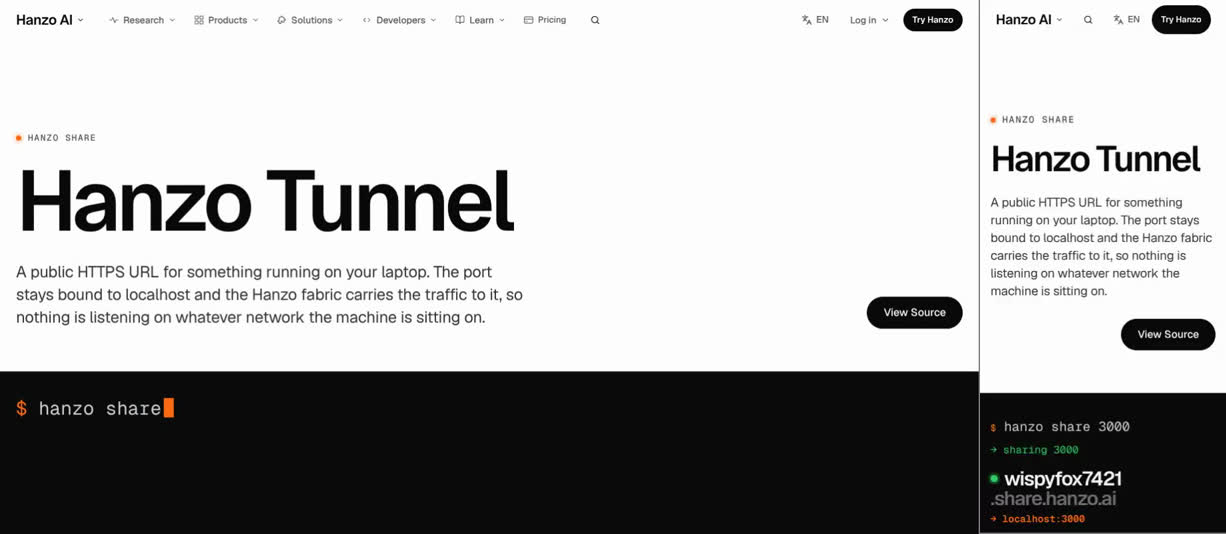
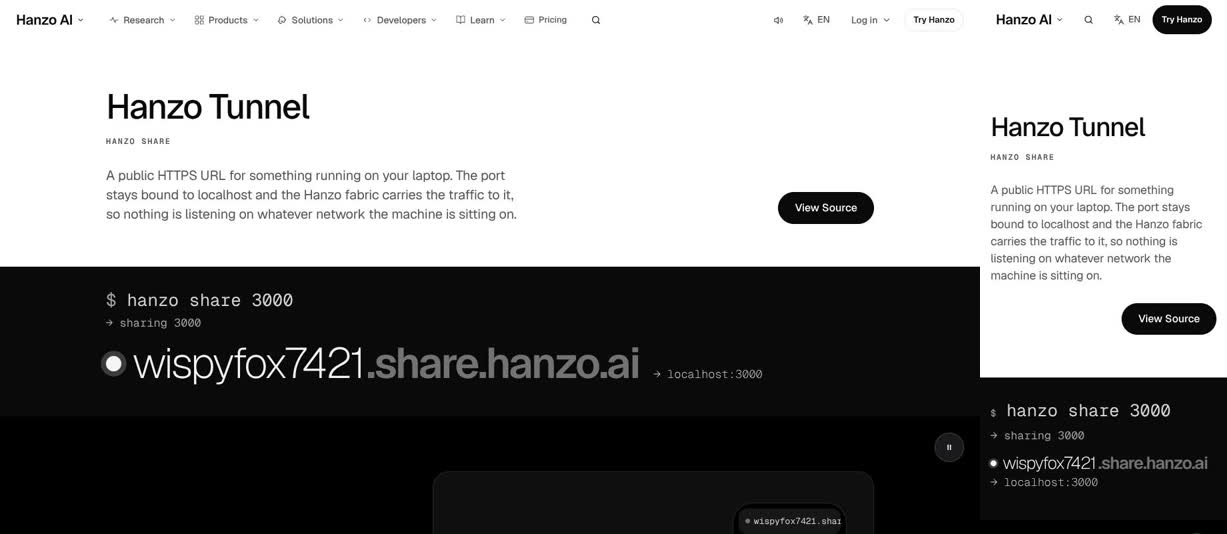
re-review: /tunnel 5/10 after the system merge (phone scene collapses to 0px, dead page, card claims false)
Claude-Session: https://claude.ai/code/session_01DqUybEnABm6Lfey1goid2b

diff --git a/docs/review/tunnel.md b/docs/review/tunnel.md
@@ -1,108 +1,219 @@
 # /tunnel: James-eye review
 
 Verdict: 5/10
-First complaint: "It's orange again, with green and red as well. I said greys, silvers, blacks and whites. The best moment on the page is just a box filling up with orange. That little label is on top of the headline again, and after the dark part it turns into a list of paragraphs."
+First complaint: "It's black and white now, and the address landing under the title is nice. But on my phone the middle is just a black gap with one thin line where the laptop and the phone should be. And once the address lands, nothing moves unless I scroll. The bottom half is still text, and it ends the same way as the other Cloud pages."
 
-Reviewed: branch `claude/laughing-hamilton-uisesd` @ `cd5ee2a` (merged to main; the branch has since moved to `486d6d0`, which only changes how Tunnel.jsx reads reduced motion). Files hash: `0bf81264f27b`
-Walked 7 Nov 14:05–14:08 UTC on the dev server, moving, at 1470×801 and 375×812 (videos, frame sheets and a frame-difference motion log kept by the critic; the site loader was skipped).
+Reviewed: main @ `2475ed02` (last page commit `42470f7a`). Files hash: `54b593f6c601`
+Walked 7 Nov 15:21–15:24 UTC on the dev server, moving, at 1470×801 and 375×812 (videos, frame sheets and a frame-difference motion log kept by the critic; the site loader was skipped).
 Proof: `img/tunnel.jpg` (desktop first screen | phone first screen).
 
-## The 11 answers
-1. **Sells in 5 seconds, moves within 1 second?** Yes on phone, late on desktop. The idea is clear and good: under the title a black terminal types `hanzo share 3000`, prints "→ sharing 3000", and the public URL "wispyfox7421.share.hanzo.ai → localhost:3000" lands as a second headline. The title is 128px at line height 0.92.
-   - Phone: by 2.5 s the title, the lede, "View Source" and the landed URL all fit 375×812. In the first second after paint, 13 of 25 frames move (the title cuts in and the typing starts).
-   - Desktop: the URL lands at about y 680–750, inside 801, so the object is on the first screen. But the film is white with only the header for about 2.5 s: 1 of 25 frames moves in the first second after paint. The same blank start shows on /search, /telemetry and /visor on this dev server. The title cuts in at about 3 s, the typing starts at about 3.5 s, and the URL lands at about 7.5 s.
-   - With JS off, 9 text runs are hidden, including the lede and "View Source". The check passes the h1 on opacity, but in source the h1 is server-rendered at translateY(108%) inside an `overflow: hidden` line, so it starts out of sight.
-2. **One in, one out, or a document?** One in, one out through the dark room, then a document.
-   - Desktop dark room: a real pinned scene, 320svh tall. The laptop types the command, prints the URL and logs three `GET /` lines. The stage floods with "open internet", the phone loads a page, then "terminal closed" appears and the phone reads "stopped answering". The caption swaps from "01 / 06 The port stays on localhost" to "05 / 06 It ends when you do". This is the Apple move and the best part of the page.
-   - After it: "For the things that need a real URL" holds on the left while four numbered paragraphs (02, 03, 04, 06) scroll by on the right. Only 06 has a thing to touch (the proxy / web / static / drive switch). Then "One command, one URL", then two endings in a row ("Get started with Tunnel" with the agent prompt, then "Get Tunnel").
-   - Phone: the room is not pinned. Both captions come first as stacked text (s1 STILL), so you read "It ends when you do" before anything has opened. Then the stage plays itself on a 9 s loop.
-   - On both widths the chapter numbers read 01, 05, 02, 03, 04, 06.
-   - STILL: desktop 1 of 11 screens (s5, the room at 05/06), with s3 nearly still (3 frames, max 0.16). Phone: 2 of the 9 page screens (s1 captions, s6 the name builder), plus the footer.
-3. **A real object in every section?** No.
-   - Hero: yes, the terminal and the URL.
-   - Dark room: yes, a laptop, a phone and the "Hanzo fabric" wire with packets running along it. The phone's "page", though, is four grey bars under an orange gradient tile: a wireframe, not anything of Hanzo's.
-   - Facts: three of the four items are a heading and a paragraph only.
-   - "One command, one URL": yes, the code block and the "A name you can keep" builder. Typing a name rewrites the command and the URL. It is a good Beyond.
-   - Endings: the agent prompt card. "Get Tunnel" has no object.
-4. **One ask, sticky after the hero?** No.
-   - Five button verbs: "View Source" (hero, solid, magnetic), "Install the CLI" (solid) with "See Pricing" (outlined), "View on GitHub" (solid) and "Deploy to Cloud" (solid). "View Source" and "View on GitHub" go to the same github.com/hanzoai under two labels.
-   - Desktop: after the hero, the only sticky button is the global header's "Try Hanzo" (s1–s10). No page ask follows you.
-   - Phone: the header's "Try Hanzo" and the bottom bar's "View Source →" are two solid asks on every screen from s2 to s7, and s5 adds a third ("Install the CLI"). At s7 the bar sits on top of the close's "Deploy to Cloud"; only "ep" shows behind it.
-5. **Every hover and press answers?** No.
-   - Hero "View Source": the hover answers (it pulls toward the pointer), but there is no press state.
-   - "Install the CLI", "See Pricing", "View on GitHub", the "hanzoai" chip and "Deploy to Cloud": the hover answers, but there is no press state.
-   - The proxy / web / drive switch: dead hover (no hover rule at all), though it presses to 0.98. Phone: tapping "static" answers, and tapping "proxy", which is already selected, shows nothing.
-   - "Copy" answers with a drawn tick and "Copied".
-   - No opacity-only hover and no jumps.
-6. **Overlap, font swap, layout shift?** None measured.
-   - CLS 0 on desktop and 0.005 on phone (the room's laptop and caret).
-   - The h1 box is steady (one reading: 1422×136 at top 240, phone 343×58 at 216).
-   - No horizontal scroll at 375 or 320, and no overlaps.
-   - Two small notes. The fixed phone bar covers "Deploy to Cloud" at s7. On desktop the console logged "Transition was aborted because of timeout in DOM update" on arrival; /risk and /search log the same, so it is likely the shared page transition.
-7. **Which reference, and is its motion there?** apple.com product page, and its motion is there: a pinned dark room where one stage changes while the caption swaps.
-   - The motion is a real mix, not only scroll: time (typing, caret), pointer (the magnetic "View Source"), ambient (the packets on the wire, and the room playing itself on phone), state (the mode switch, the name builder) and scroll (the wipe).
-   - On desktop the walker's 650px steps show the room cutting from dark to full orange. The wipe growing from the terminal is visible in the phone film.
-   - synchronized.studio is absent: nothing opens into its page. There is no anthropic-style hero figure, but Hanzo's Tunnel copy has no figures, so that is fair.
-8. **Different from its neighbours?** Half. It is in Cloud 4 with /search, /sentinel, /stream, /telemetry and /visor.
-   - The first screen is /telemetry's skeleton: a dot eyebrow, a one-line 128px "Hanzo X" on the left, the lede, one black button on the right and a product strip on the fold. Here the strip is a black terminal band, and the URL landing as a second headline is Tunnel's own idea. The orange wipe room is its own signature.
-   - The rest is the Cloud kit: orange mono "0N / 06" numbers (as on /metrics and /sentinel), one dark room, an editorial list, the same "Paste and ship" card, and the same "Get X" block with license and "hanzoai" chips and "Deploy to Cloud" that /metrics and /search close on.
-   - It is the second orange page after /metrics, and /telemetry is amber. James: "too many repeats of the same colours."
-9. **All 18 parts covered?** No; see below. `docs/coverage/tunnel.md` is missing.
-10. **Banned tells?** Yes:
-    - An orange UI hue, declared in the file as "Accent: share orange" (`--ac: #ff6a13`). On desktop it covers 27 text runs and 1 background (16 and 1 on phone): the "$" prompts, the caret, "→ localhost:3000", every "0N / 06", the room's URL line, "A NAME YOU CAN KEEP", the mode word, the token in the built URL, the input focus ring and the eyebrow dot.
-    - The signature itself is an orange radial gradient box (`#ffb27d → #ff6a13 → #c2410c`) that fills the stage, and the drawn phone page carries another orange gradient tile. JAMES.md rule 7: "Colour from the brand, not from boxes."
-    - Green (`#30d158`) on 9 text runs and 3 backgrounds: "→ sharing 3000", the big green dot in front of the hero URL, "nothing listening" and the phone's address dot. Green accents are on the reject list.
-    - Red (`#ff6b6b`) on "terminal closed". The URL in the "One command" code block is blue.
-    - A "● HANZO SHARE" eyebrow 24px above the h1, with an orange dot.
-    - Dead hover on the mode switch.
-11. **Copy untouched?** Yes. Parity 38/38 text and 4/4 links.
-    - Four strings are not in Hanzo's source: "café network", "nothing listening", "open internet" and "Target: a port." They are labels lifted from Hanzo's own sentences ("a café… sees nothing", "nothing is listening").
-    - The rest is demo data ("GET / · 127.0.0.1:3000", "terminal closed", "stopped answering").
-    - None is a claim or a number. The order of the six facts on screen changes (01, 05, then 02, 03, 04, 06), but their words do not.
+## Since the last review
+- **Done: the colour, and the label over the title.**
+  - The walk found no hue at either width. Before, there was orange, green, red and blue.
+  - `--ac` is gone. The "open internet" is now a white-to-`#d4d4d4` light, the dots are white or ink, and "terminal closed" is grey italic.
+  - "hanzo share" is now a 12px mono caption under the h1, not a dotted eyebrow above it.
+  - Contrast is fixed too: 0 runs under 4.5:1 (it was 7).
+- **Done: presses, scale, and the builder's place.**
+  - Every button now presses: 0.98, "Deploy to Cloud" 1px down, Copy 0.94, Pause 0.97. Before, none of the six link buttons did.
+  - The type rests at the live sizes (h1 52px, the URL 64px, heads 26px).
+  - The name builder sits inside fact 02, the fact it acts out.
+  - Typing starts on arrival: the URL lands at about 5 s on desktop (it was 7.5 s) and by 3 s on phone.
+- **Half done: one ask.**
+  - Desktop: the header turns to a solid "View Source" from s1 to s10. "Install the CLI" is now outlined, and "See Pricing" and "Deploy to Cloud" are text links.
+  - But at s8 the close's solid "View on GitHub" sits under the header's solid "View Source": the same link under two labels.
+  - Phone: the header's solid "Try Hanzo" sits with the hero's "View Source" (s0) or with the bar's (s1, s5).
+- **Worse: the phone scene.** The old build played the stage on phone on a 9 s loop. It is now placed between "01 / 06" and "05 / 06" as asked, but it draws 0px wide. The phone shows about 520px of black with one thin line (s1 and s2, shotdiff 0).
+- **Still open:**
+  - With JS off, 5 runs are hidden (it was 9), and they now include the hero's URL.
+  - The code block's Copy still takes the "$" and the output lines.
+  - The selected mode's hover is dead.
+  - The coverage card now exists, but five of its claims are false.
 
-## Missing from the 18 parts (PLAN-COMPONENTS §2.1–2.18, measured)
-- **2.1 Strategy / 4 Common gate:**
-  - No `Persona:`, `Goal:`, `CTA:` or metric id in the page header.
-  - More than one solid button per viewport on phone (s2–s7), and three at s5.
-  - One href (github.com/hanzoai) under two labels.
-- **2.3 First impression:**
-  - With JS off, 9 runs are hidden, including the lede, "View Source", the eyebrow and the terminal. That fails a P1 row. The h1 is also server-rendered pushed out of its clipped line.
-  - The page hand-writes its own `function Hero` instead of `PageHero`.
-  - Two endings in a row, and the last solid button is "Deploy to Cloud", not the hero ask (`bandAtEnd` false).
-  - No Morph.
-  - On phone the facts read 01, 05, 02, 03, 04, 06.
-- **2.4 Conversion:** 0 `data-cta`. The one `data-thumb` ("View Source") differs from the close ("Deploy to Cloud") and from "View on GitHub". 7 raw `.x-btn`. No sticky page ask on desktop.
-- **2.6 Content:** 8 text runs under the 14px phone floor (the room's terminal lines, and the code block's "terminal" and "Copy"), and 3 at 13px on desktop. The facts are four stacked paragraphs of 30–50 words each.
-- **2.7 Visual system:**
-  - Orange, green, red and blue break the 0-hue override.
-  - The orange is a page token (`--ac`).
-  - Tunnel.css holds 41 raw hex literals (16 distinct, including four near-blacks: `#000`, `#0b0b0c`, `#111113`, `#1c1c1f`).
-- **2.8 Components:**
-  - 9 bare `:hover` rules.
-  - No press state on the six link buttons, and a dead hover on the mode switch.
-  - The switch is `aria-pressed` buttons, not the kit `Tabs` (no arrow keys).
-  - The shared Copy says "Copied" even when the clipboard is blocked (a P1 row).
-- **2.9 Motion:** 3 `setInterval` timers (the typing and two in Frame.jsx). On phone the room loops forever (9 s, `repeat: Infinity`), and the wire's packets loop forever on both widths, with no pause control (the WCAG 2.2.2 row in 2.12). Reduced motion is good: everything comes to rest.
-- **2.11 Mobile:** the "hanzoai" chip is 111×36, under 44px. The phone bar covers "Deploy to Cloud" at s7.
-- **2.12 Accessibility:** 7 runs under 4.5:1: the orange "02 / 06", "03 / 06", "04 / 06" and "06 / 06" at 2.9:1, and the mode word "proxy" at 2.6:1.
-- **2.16 Developer experience:** the code block's Copy takes "$ hanzo share 3000 / → sharing 3000 / https://… → localhost:3000", with the prompt and the output included, so the paste does not run in a shell.
-- **Coverage:** `docs/coverage/tunnel.md` is missing.
-- Passing: one h1, one main, no horizontal scroll at 320, no raw img/video/table, no `title=` tooltips or native controls, reduced motion settles (0 running after 3 s), CLS ≤ 0.005, h1 line height 0.92 at 128px, inputs 52px with 17px text and real labels, parity complete, the room stacks under 900px as the plan asks, and both first screens hold the object.
+## The 11 answers
+1. **Sells in 5 seconds, moves within 1 second?** Yes, at both widths.
+   - Desktop: all of this fits inside 801px:
+     - "Hanzo Tunnel" (52px, top 132) with "HANZO SHARE" under it;
+     - the lede and "View Source" (y 288);
+     - the black terminal band, where `hanzo share 3000` types, "→ sharing 3000" prints, and "wispyfox7421.share.hanzo.ai → localhost:3000" lands at 64px.
+   - 3/25 frames move in the first second after paint, then 13/43 in the rest of the 3 s.
+   - Sheet 01: the hero is white until 1.5 s, which is the dev server's allowance. Then the terminal band fades in through light grey and mid grey for about a second before it turns black. Typing starts at about 2.5 s, and the URL lands at about 5 s.
+   - Phone: all of this fits 375×812: the 40px h1, the lede, "View Source" (y 461) and the whole band, with the URL at 26px. 8/25 frames move in the first second, and the URL is in by 3 s.
+   - Then it stops. Once the caret switches off, s0 is STILL at both widths (shotdiff 0).
+2. **One in, one out, or a document?** On desktop, through the room only. Then it is a document. On phone, no.
+   - The desktop room is pinned (320svh) and scrubbed by scroll. One stage changes per screen:
+     - s1: the café laptop types "$ h".
+     - s2: the silver "open internet" wipe opens, packets run along "Hanzo fabric", and the phone loads a page.
+     - s3: "05 / 06 It ends when you do", with three `GET /` lines.
+     - s4: "terminal closed", the phone reads "stopped answering", and the room goes dark again.
+   - It is still the best part of the page, but it only moves while you scroll. s1 and s4 are shotdiff 0, and s2 and s3 move (0.094 / 0.097) only because of the packets.
+   - After the room comes a document:
+     - "For the things that need a real URL" (26px) holds on the left while four facts scroll by on the right.
+     - Fact 02 has the builder, 03 and 04 are a heading and a paragraph each, and 06 has the mode switch.
+     - Then "One command, one URL" on grey, then the dark close.
+     - s4 to s8 are all STILL.
+   - On phone the room is broken.
+     - Between "01 / 06" and "05 / 06" there are about 520px of black with one thin vertical line at x 187. This shows at s1 and s2 (both shotdiff 0) and in film frames from 6.2 s to 11.8 s.
+     - The line is the stage's border: the stage draws 0px wide. So you read "It ends when you do" before anything has opened.
+   - Count:
+     - Desktop: 8 of 11 screens are STILL. Only s2, s3 and the prompt caret at s9 move.
+     - Phone: 11 of 12 screens are STILL. Only s7 (the prompt caret) moves.
+   - That makes it a dead page.
+3. **A real object in every section?** On desktop mostly. On phone, no.
+   - Hero: the terminal band and the URL.
+   - Room (desktop): the laptop, the phone and the fabric wire. The phone's "page" is still a wireframe: a black block and four grey bars.
+   - Facts: 02 has the builder (typing a name rewrites the command and the URL), and 06 has the mode switch. 03 and 04 are words only.
+   - "One command, one URL": the code block.
+   - Close: a static share card (the URL at 44px) and the shared "Paste and ship" prompt.
+   - Phone room: no object at all (the 0px stage).
+4. **One ask, nothing floating, scale with rhythm?** Floats and scale pass. The ask passes only on desktop, and not at the close.
+   - **Floats:** none.
+     - FLOATS is empty at both widths, and there are no cursor labels.
+     - The phone bar "View Source →" (s1, s5) sits below the content in the shots. At s5 it clears the code block by about 10px.
+   - **Ask, desktop:**
+     - While the hero ask is in view, the header shows a quiet "Try Hanzo". From s1 to s10 it shows a solid "View Source".
+     - At s8, the close's solid white "View on GitHub" sits under the header's solid black "View Source". Both go to github.com/hanzoai, so that is two solid fills and two labels for one link.
+   - **Ask, phone:** the header's "Try Hanzo" is solid on every screen and never becomes the page's ask.
+     - The first screen has two solid black buttons: "Try Hanzo" (y 8) and "View Source" (y 461).
+     - s1 and s5 have the header plus the bar's "View Source →".
+     - s6 has the header plus "View on GitHub".
+     - The header is shared, but the page still fails part 4.
+   - **Scale:** it rests at the live sizes.
+     - s0: the h1 is 52px, the URL 64px (Air), the command 26px and the lede 17px.
+     - The room heads are 26px. The close has a 26px head, and its share card's URL is 44px.
+     - There is one big thing per screen, and the wipe grows and then shrinks back.
+     - One slip: the four fact titles (h3) are 32px, set under their own 26px h2, so the items outrank the section head.
+5. **Every hover and press answers?** Yes, except one.
+   - These answer on hover and press:
+     - "View Source" (0.98) and Pause (0.97);
+     - "web" and "drive" (0.98);
+     - "Install the CLI", "View on GitHub" and "hanzoai" (0.98);
+     - "Deploy to Cloud" (1px down) and Copy (0.94).
+   - Dead: the selected mode, "proxy". Its hover darkens text that is already ink.
+   - Phone taps:
+     - "static" and Copy answer.
+     - "proxy", which is already chosen, shows nothing.
+     - The walker's Pause tap logged no change. It tapped as it scrolled, and the stage that Pause controls is invisible anyway.
+   - There is no opacity-only hover and no jump. But no hover tells you anything: nothing on the page answers the pointer beyond button states.
+6. **Overlap, font swap, layout shift?**
+   - Nothing was measured:
+     - no overlaps;
+     - no horizontal scroll at 375 or 320;
+     - the h1 box is steady (one reading each: 1152×60 at top 132, 343×46 at top 172);
+     - CLS is 0.017 on desktop and 0.001 on phone.
+   - Broken, though not an overlap: the phone stage draws 0px wide (answer 2).
+   - The builder's URL breaks mid-word:
+     - Phone: "https://wispyfox7421.sh / are.hanzo.ai", with the underline under "wispyfox7421" touching the second line.
+     - Desktop: "…share.hanzo. / ai".
+7. **Which reference, and is its motion there?**
+   - apple.com product page, on desktop: a pinned dark room where one stage changes as the caption swaps. Its motion is there, but only with scroll.
+   - The mix of motion:
+     - arrival: the h1 cut-in and four fade-ups;
+     - time: the typing, once;
+     - scroll: the wipe;
+     - ambient: the packets, only while the wipe is open;
+     - state: the mode switch and the builder.
+   - On phone the Apple scene is gone.
+   - synchronized.studio card-open: absent.
+   - anthropic launch: there is no hero figure, but Hanzo's Tunnel copy has no figures, so that is fair.
+8. **Different from its neighbours?** The object, yes. The frame around it, no.
+   - Its own:
+     - a terminal band where the URL lands as a 64px line;
+     - the wipe room that opens and shuts.
+   - Shared:
+     - In Cloud 4, the first screens of /search, /sentinel, /stream, /telemetry and this page are each a 52px "Hanzo X" with a 12px mono caption under it. /visor, walked on an older build, has the same caption.
+     - Tunnel's layout is the arrangement /telemetry and /metrics use: title and lede on the left, the black button on the right, a product strip on the fold.
+     - The close is `Finale`, the same block on 9 Cloud 4 pages (/auto, /billing, /search, /sentinel, /stream, /telemetry, /tunnel, /visor, /world). It has "Get started with X" in a dark band with one ask and an object, then "Get X" with the licence and "hanzoai" chips, "Deploy to Cloud" and "Paste and ship".
+     - "0N / 06" under each heading is shared with /sentinel.
+   - James: "It's not just a template."
+9. **All 18 parts covered?** No; see below. `docs/coverage/tunnel.md` now exists with all 18 parts, but five of its claims fail the walk.
+10. **Banned tells?** One: a dead page.
+    - On desktop 8 of 11 screens don't move untouched, and on phone 11 of 12 don't. The desktop room moves only with scroll.
+    - That caps the page at 6. The phone's room, an empty black gap where the page's signature should be, takes it to 5.
+    - Clean:
+      - no hue at either width;
+      - nothing above any headline;
+      - nothing floating and no cursor labels;
+      - no opacity-only hover;
+      - 0 title tooltips;
+      - 0 console errors at either width;
+      - no sound code of its own, so nothing plays on hover, scroll or load.
+11. **Copy untouched?** Yes.
+    - Parity is 38/38 text and 4/4 links.
+    - The 4 strings that are not in Hanzo's source ("café network", "nothing listening", "open internet", "Target: a port.") are labels lifted from Hanzo's own sentences. The rest is demo data. There is no new claim or number.
+    - On screen, the six facts still read 01, 05, then 02, 03, 04, 06. Their words are untouched.
+
+## Missing from the 18 parts (MASTER §2, measured; coverage card checked)
+- **Coverage card:** `docs/coverage/tunnel.md` is the same at HEAD and in the pack. It uses the older form, 18 numbered paragraphs, and all 18 are there. Five claims fail the walk:
+  - Part 4, "one solid per viewport": two solid fills at desktop s8 ("View Source" in the header and "View on GitHub") and at phone s0, s1, s5 and s6.
+  - Part 9, "on phones the scene plays by itself with a Pause": the phone stage draws 0px wide, and s1 and s2 are shotdiff 0.
+  - Part 11:
+    - "the scene reads 01, then the stage playing on its own, then 05": the stage is a line.
+    - "targets ≥44px": on phone, "See Pricing" is 100×21 and "Deploy to Cloud" is 132×21.
+  - Part 13, "packets are CSS transforms": `@keyframes tn2-pk` animates `left`.
+  - Part 17, "JS off shows every word": 5 runs are hidden, including the hero's URL.
+  - The card also lacks the copy-questions and requested-changes lines above part 1.
+  - The V2 line ("played when seen on phones") repeats the part 9 claim.
+  - This caps the page at 7.
+- **Part 1:**
+  - The metric is `cta_click:tunnel.primary`. That is not one of MASTER §1's metric ids, so the check finds none.
+  - Two solid fills on one screen, as above.
+- **Part 3:**
+  - With JS off, these are hidden: "→ sharing 3000", the URL, and "It ends when you do" / "05 / 06". `.tn2-url`, `.tn2-share` and `.tn2-cap-i` start at opacity 0 through their class, and the page has no `html:not(.js)` rule for them.
+  - On arrival, the terminal band fades in through grey.
+  - The phone room has no object.
+- **Part 4:**
+  - `data-cta` reads "primary", "close", "install-cli", "pricing" and "deploy", not `tunnel.<slot>`.
+  - On phone the header never carries "View Source". That is shared, so request it.
+- **Part 6:**
+  - Phone has 8 runs under 14px. Desktop has 2 under 13px: the code bar's "terminal" and "Copy". The two 12px mono captions are allowed.
+  - The builder's URL breaks mid-word, and its lines touch.
+  - The fact titles (32px) outrank their 26px h2.
+- **Part 7:**
+  - `Tunnel.css` holds 54 literal hex values. All are on the deck's ramp, but they are not tokens.
+  - The hero's black terminal band runs straight into the black room, so the top of the page is one long black block.
+- **Part 8:**
+  - The selected mode has no hover.
+  - The mode switch is `aria-pressed` buttons, not the kit `Tabs`, so there are no arrow keys.
+  - The packets animate `left`.
+- **Part 9:**
+  - A dead page (above).
+  - Four fade-ups on the hero (caption, lede, ask and terminal band), against a budget of 2.
+  - The desktop room moves only with scroll, and nothing answers the pointer.
+- **Part 11:** the phone stage draws 0px wide, and two phone targets are 21px tall.
+- **Part 16:** the Copy on "One command, one URL" puts "$ hanzo share 3000", "→ sharing 3000" and the URL line on the clipboard. The paste does not run in zsh.
+- **Part 17:** JS off, as in part 3.
+- **Part 18:** the `data-cta` form is wrong, and the V2 line claims 8/10 and the phone scene.
+- Passing:
+  - structure: one h1, visible with JS off; one `main#main`; a band at the end; no raw img, video or table;
+  - colour and headings: no hue at either width; nothing above any headline; 0 low-contrast runs;
+  - layout: no overlap; no horizontal scroll at 320; the h1 box steady; CLS 0.017 / 0.001;
+  - asks: the header carries "View Source" on desktop; 5 `data-cta` and 1 `data-thumb`; every button presses;
+  - motion: reduced motion settles (0 running after 3 s); a 44px Pause on the room;
+  - working: 0 console errors at both widths; parity 38/38 and 4/4; no audio code of its own.
 
 ## Fixes (in order)
-1. **Take the colour out.** Set `--ac` to ink, or remove it.
-   - Make the "open internet" flood a silver-to-white wash (`#f5f5f7 → #fff`) instead of the orange radial gradient, and keep the clip-path wipe, so the room goes from dark to light. Make the drawn phone page's tile grey.
-   - Make "→ sharing 3000", "nothing listening" and the status dots grey or white. The green dot in front of the hero URL becomes a white dot.
-   - Make "terminal closed" and the code block's URL grey or ink.
-   - Make the chapter numbers grey. That also fixes the 2.9:1 contrast.
-2. **Delete the "● HANZO SHARE" eyebrow above the h1.** Hanzo's words "hanzo share" are already what the terminal types under the title. If parity needs the exact run, make it the terminal band's label.
-3. **Land the first screen fast, with or without JS.** Render the lede and "View Source" visible in the server HTML, and let the h1 cut-in animate from a visible state. Start the typing on arrival instead of at 30% in view, so the URL lands within about 2 s on desktop as it does on phone.
-4. **One ask.** "View Source" is already the hero primary and the phone bar.
-   - Carry it in a desktop sticky bar after the hero.
-   - In their places, "Install the CLI", "View on GitHub" (the same link) and "Deploy to Cloud" become outlined or text links, so each screen has one solid button.
-   - Lift the phone bar away before the close so it stops covering "Deploy to Cloud".
-5. **Make every control answer.**
-   - Give "View Source", "Install the CLI", "See Pricing", "View on GitHub", "Deploy to Cloud" and the "hanzoai" chip a press of scale 0.98.
-   - Give the mode switch a hover (ink text on a grey fill) and swap it for the kit `Tabs` with arrow keys.
-   - Make the code block copy `hanzo share 3000` only, with the "$" set to `user-select: none`.
-6. **Fix the order and give the list an object.** On phone, put the stage between "01 / 06" and "05 / 06", so the URL opens before "It ends when you do". On desktop, move the "A name you can keep" builder up beside fact 02, the fact it acts out, so the middle of the page is not four paragraphs in a column.
+1. **Put the phone scene back.**
+   - The cause: every child of the stage is absolutely placed. Under 900px, `.tn2-scene-in` becomes a flex column but keeps `align-items: center` from its desktop grid, so the stage shrinks to 0px.
+   - The fix: add `.tn2-scene:not(.pin) .tn2-stage { align-self: stretch; }` to the phone block of `Tunnel.css`.
+   - Then check the phone film: between "01 / 06" and "05 / 06" the laptop should type, the wipe should open and shut, and Pause should swap its icon.
+2. **Let the still half run once by itself.** Use what is already on the page:
+   - When the builder comes into view, type the placeholder already in the `--name` field once, so the command and the URL rewrite. Then rest, and stop at the first key.
+   - When the mode switch comes into view, step proxy → web → static → drive once, then stop at the first touch.
+   - On desktop, when the room is reached, let the café laptop type the command by time, as the hero does. Leave the wipe on scroll.
+   - Keep one mover per screen. Reduced motion shows the end state.
+3. **Make JS off and the arrival clean.**
+   - Add a `NoJs` rule: `.tn2-url,.tn2-share{opacity:1;transform:none}` and `.tn2-cap-i{position:relative;opacity:1;transform:none}`.
+   - Drop the opacity fade on the terminal band, so it never shows as a grey block. Keep the 40px rise, or clip it in.
+   - Cut the hero to 2 fade-ups.
+4. **One solid ask per screen.**
+   - Make s8 hold one solid. Either the header's ask steps aside while the `data-ask-hide` band is on screen (request it), or the close's "View on GitHub" becomes an outline button on this page.
+   - Write `docs/requests/tunnel.md` for phone: the header should go quiet while the hero's "View Source" is in view, then carry "View Source" after it, as desktop already does.
+   - Give "See Pricing" and "Deploy to Cloud" a 44px hit area on phone (padding on the link `Cta` in `Tunnel.css`).
+5. **Make the card true.**
+   - Animate the packets with `transform: translateX` instead of `left`.
+   - Make the Copy on "One command, one URL" take `hanzo share 3000` only. The three lines on screen stay as they are.
+   - Set `data-cta` to `tunnel.hero`, `tunnel.close` and so on, and use a MASTER §1 metric id.
+   - Then correct parts 4, 9, 11, 13 and 17 and the V2 line, and add the two missing lines above part 1.
+6. **Tidy the type.**
+   - Set the fact titles (`.tn2-list .l2-title`) to 21px, so the 26px "For the things that need a real URL" leads.
+   - In the builder, put a `<wbr>` before ".share" and set `line-height: 1.2` on `.tn2-name-url`, so the URL breaks at the dot and the lines no longer touch.
